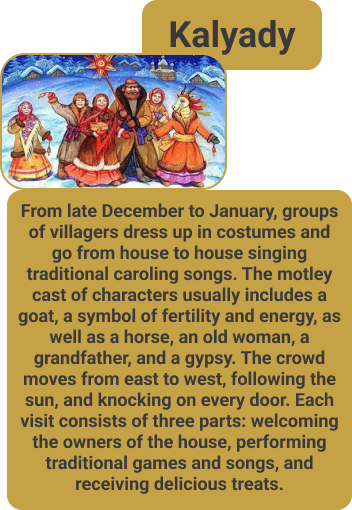
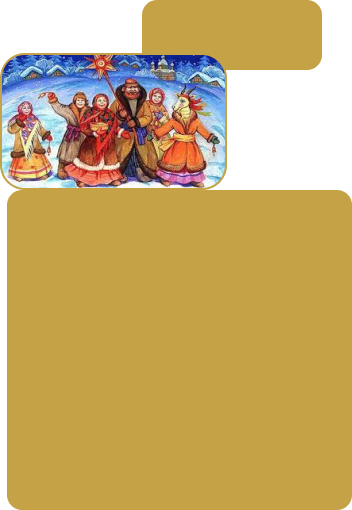
Add files via upload

Changed region(s): [[0.0312, 0.3824, 0.9688, 0.9706], [0.4688, 0.0294, 0.8438, 0.1176]]

diff --git a/holydays.css b/holydays.css
@@ -15,24 +15,18 @@ a{
     color: #2E2D2D;
 }
 .container{
+    position: relative;
 width: 360px;
 height: 1675px;
 margin: 0 auto;
-margin-top: 100px;
-margin-bottom: 100px;
 
 background: #D0CEA2;
-}
-.box{
-    margin-left: 10px;
-    margin-right: 10px;
 }
 
 .line{
     position: absolute;
     width: 360px;
     margin: 0 auto;
-    margin-top: 100px;
 height: 20px;
 left: 0px;
 right: 0px;
@@ -45,9 +39,7 @@ background: #C6A247;
     width: 360px;
     margin: 0 auto;
 height: 20px;
-left: 0px;
-right: 0px;
-top: 1775px;
+top: 1675px;
 
 background: #C6A247;
 }
@@ -57,29 +49,167 @@ background: #C6A247;
     height: 130px;
     margin: 0 auto;
     margin-top: 42px;
+    background-color: #C6A247;
+    border-radius: 15px;
 }
+.p_holidays{
+    position: absolute;
+    top: 44px;
+    margin-left: 29px;
+}
+
+
+
 .kupalle{
+    position: absolute;
     width: 350px;
-height: 452px;
-    margin: 0 auto;
+    height: 452px;
+    margin-left:5px;
     margin-top: 55px;
 }
+.kupalle-smallbox{
+    width: 150px;
+    height: 70px;
+    background-color: #C6A247;
+    border-radius: 15px;
+    margin-left: 171px;
+    margin-top: 0px;
+}
+.p_kupalle{
+    position: absolute;
+    margin-top: 14px;
+    margin-left: 14px;
+}
+.img-kupalle{
+    position: absolute;
+width: 223px;
+height: 149px;
+left: calc(50% - 223px/2 - 48.5px);
+top: 53px;
+
+background: url(IMG/Holidays/Kupalle.jpg);
+border: 2px solid #C6A247;
+box-sizing: border-box;
+border-radius: 15px;
+}
+.kupalle-bigbox{
+    position: absolute;
+width: 350px;
+height: 250px;
+left: calc(50% - 350px/2);
+top: 202px;
+
+background: #C6A247;
+border-radius: 15px;
+}
+.bt_kupalle{
+    position: absolute;
+width: 320px;
+height: 235px;
+left: calc(50% - 320px/2);
+}
+
+
+
 .maslenica{
+    position: absolute;
     width: 350px;
     height: 341px;
-    margin: 0 auto;
-    margin-top: 28px;
+    margin-left:5px;
+    top: 727px;
 }
+.smb_maslenica{
+    position: absolute;
+width: 180px;
+height: 70px;
+left: calc(50% - 180px/2 - 37px);
+top: 0px;
+
+background: #C6A247;
+border-radius: 15px;
+}
+.bt_maslenica{
+    position: absolute;
+width: 168px;
+height: 42px;
+left: 6px;
+top: 14px;
+}
+.img_maslenica{
+    position: absolute;
+    width: 223px;
+    height: 146px;
+    left: 120px;
+    top: 50px;
+
+    background: url(IMG/Holidays/Maslenica.jpg);
+    border: 2px solid #C6A247;
+    box-sizing: border-box;
+    border-radius: 15px;
+}
+.bb_maslenica{
+    position: absolute;
+    width: 350px;
+    height: 145px;
+    margin-top: 192px;
+    border-radius: 15px;
+    background: #C6A247;
+}
+.smt_maslenica{
+    position: absolute;
+    width: 320px;
+    height: 125px;
+    margin-left: 15px;
+    bottom: 30px;
+}
+
+
+
 .kalyady{
     width: 352px;
     height: 510px;
     margin: 0 auto;
-    margin-top: 28px;
+    margin-top: 956px;
 }
+.bt_kalyady{
+    position: absolute;
+width: 128px;
+height: 42px;
+left: 175px;
+top: 1105px;
+}
+.smt_kalyady{
+    position: absolute;
+width: 323px;
+height: 294px;
+margin-left: 18px;
+top: 1310px;
+}
+
+
+
 .home{
     position: absolute;
 width: 60px;
 height: 60px;
 margin-left: 17px;
 margin-top: 27px;
+}
+.text{
+    font-family: 'Roboto';
+    font-style: normal;
+    font-weight: bold;
+    font-size: 36px;
+    line-height: 42px;
+
+    color: #393939;
+}
+.text-small{
+    font-family: 'Roboto';
+    font-style: normal;
+    font-weight: bold;
+    line-height: 21px;
+
+    color: #393939;
+    font-size: 18px;
 }

diff --git a/holidays.html b/holidays.html
@@ -4,17 +4,49 @@
 	<meta charset="utf-8">
 	<meta name="viewport" content="width=device-width, initial-scale=1">
 	<link rel="stylesheet" href="holydays.css">
+    <link rel="preconnect" href="https://fonts.googleapis.com">
+    <link rel="preconnect" href="https://fonts.gstatic.com" crossorigin>
+    <link href="https://fonts.googleapis.com/css2?family=Roboto:wght@900&display=swap" rel="stylesheet">
 	<title>Holidays</title>
 </head>
 <body>
     <div class="container">
         <div class="home"><a href="index.html"><img src="IMG/Holidays/home.png" alt=""></a></div>
-        <div class="line box">
-            <div class="holidays"><img src="IMG/Holidays/holidays.png" alt=""></div>
-            <div class="kupalle"><img src="IMG/Holidays/kupalle.png" alt=""></div>
-            <div class="maslenica"><img src="IMG/Holidays/maslenica.png" alt=""></div>
-            <div class="kalyady"><img src="IMG/Holidays/kalyady.png" alt=""></div>
+        <div class="line">
+            <div class="holidays">
+                <p class="text p_holidays">Holidays</p>
+            </div>
+            <div class="kupalle">
+                <div class="kupalle-smallbox">
+                    <p class="text p_kupalle">Kupalle</p>
+                </div>
+                <div class="img-kupalle"></div>
+                <div class="kupalle-bigbox">
+                    <p class="bt_kupalle text-small">Kupalle is a pagan holiday of the ancient Slavs. The most famous ceremonies are jumping over a fire, burning wine. In addition to the fire through which people jumped, another main fire was made. He was either on a hill or near a river. This fire was large, in the center was a huge pillar on top of which there was a wheel. One of the attributes of Kupala is wine. It was made from flowers and wild herbs.</p>
+                </div>
+            </div>
+
+
+            <div class="maslenica">
+                <div class="smb_maslenica">
+                    <div class="bt_maslenica text">Maslenica</div>
+                </div>
+                <div class="img_maslenica"></div>
+                <div class="bb_maslenica">
+                    <div class="text-small smt_maslenica"><p>Maslenica is an Eastern Slavic traditional holiday celebrated a week before Lent. Pancakes are baked on Maslenitsa and a straw man is burned. According to one version, this holiday drives away winter and calls for spring.</p></div>
+                </div>
+            </div>
+
+
+            <div class="kalyady">
+                <div><img src="IMG/Holidays/kalyady.png" alt="">
+                    <p class="text bt_kalyady">Kalyady</p>
+                    <p class="text-small smt_kalyady">From late December to January, groups of villagers dress up in costumes and go from house to house singing traditional caroling songs. The motley cast of characters usually includes a goat, a symbol of fertility and energy, as well as a horse, an old woman, a grandfather, and a gypsy. The crowd moves from east to west, following the sun, and knocking on every door. Each visit consists of three parts: welcoming the owners of the house, performing traditional games and songs, and receiving delicious treats.</p>
+                </div>
+            </div>
         </div>
+
+
         <div class="linedown"></div>
     </div>
 </body>

diff --git a/manners.html b/manners.html
@@ -4,6 +4,9 @@
 	<meta charset="utf-8">
 	<meta name="viewport" content="width=device-width, initial-scale=1">
 	<link rel="stylesheet" href="manners.css">
+	<link rel="preconnect" href="https://fonts.googleapis.com">
+    <link rel="preconnect" href="https://fonts.gstatic.com" crossorigin>
+    <link href="https://fonts.googleapis.com/css2?family=Roboto:wght@900&display=swap" rel="stylesheet">
 	<title>Manners</title>
 </head>
 <body>

diff --git a/manners.css b/manners.css
@@ -18,8 +18,6 @@ a{
 width: 360px;
 height: 1100px;
 margin: 0 auto;
-margin-top: 100px;
-margin-bottom: 100px;
 
 background: #AFD09F;
 }
@@ -27,7 +25,6 @@ background: #AFD09F;
     position: absolute;
     width: 360px;
     margin: 0 auto;
-    margin-top: 100px;
 height: 20px;
 left: 0px;
 right: 0px;
@@ -94,7 +91,7 @@ margin-top: 16px;
 height: 20px;
 left: 0px;
 right: 0px;
-top: 1200px;
+top: 1100px;
 
 background: #6FA357;
 }

diff --git a/index.html b/index.html
@@ -4,6 +4,9 @@
 	<meta charset="utf-8">
 	<meta name="viewport" content="width=device-width, initial-scale=1">
 	<link rel="stylesheet" href="style.css">
+	<link rel="preconnect" href="https://fonts.googleapis.com">
+    <link rel="preconnect" href="https://fonts.gstatic.com" crossorigin>
+    <link href="https://fonts.googleapis.com/css2?family=Roboto:wght@900&display=swap" rel="stylesheet">
 	<title>Main</title>
 </head>
 <body>
